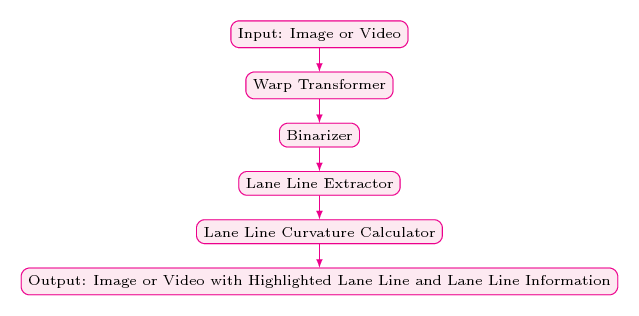
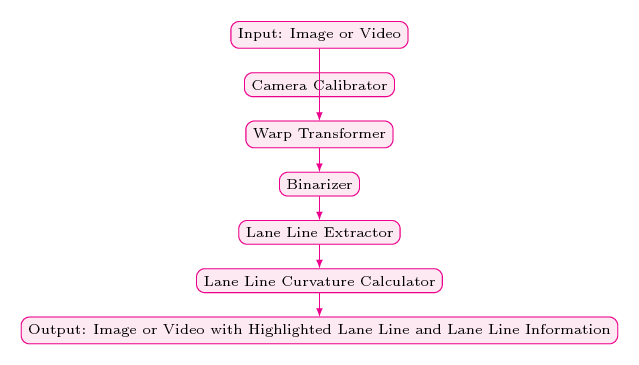
updated: pipeline.png|tex files in order to show camera calibrator stage

Changed region(s): [[0.0297, 0.057, 0.9812, 0.9684]]

diff --git a/latex/pipeline.tex b/latex/pipeline.tex
@@ -13,7 +13,9 @@
     
     \node[node](input){\scriptsize Input: Image or Video};
     
-    \node[node](shear)[below = 0.4cm of input]{\scriptsize Warp Transformer};
+    \node[node](camera)[below = 0.4cm of input]{\scriptsize Camera Calibrator};
+    
+    \node[node](shear)[below = 0.4cm of camera]{\scriptsize Warp Transformer};
     
     \node[node](crop)[below = 0.4cm of shear]{\scriptsize Binarizer};
     
